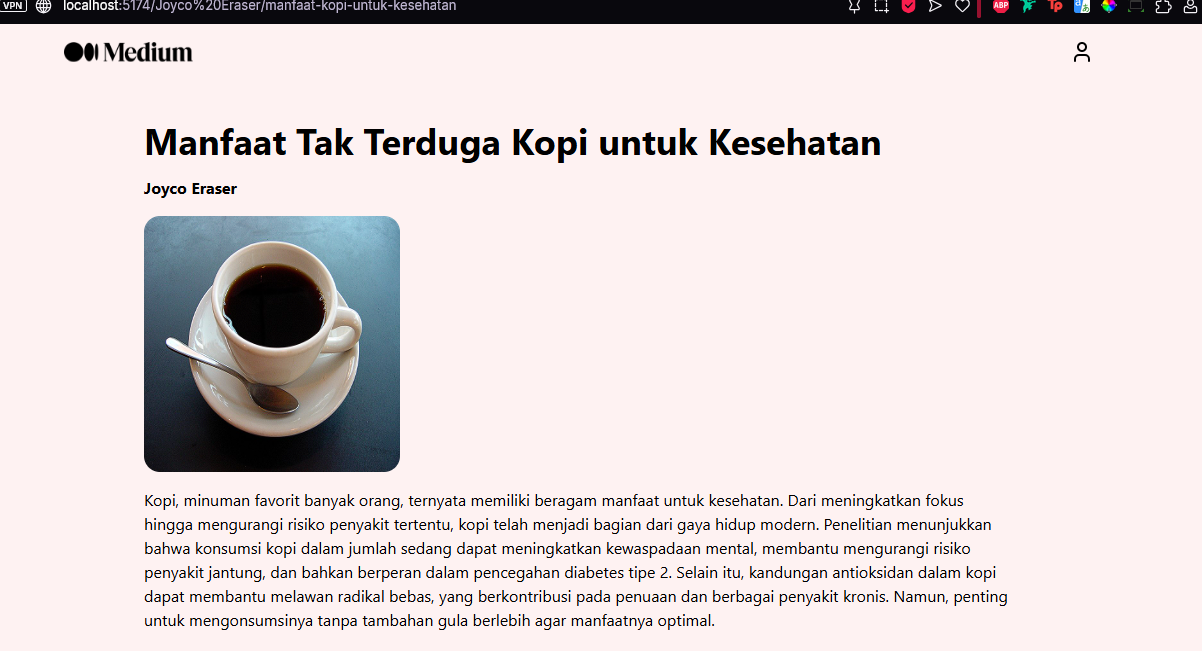
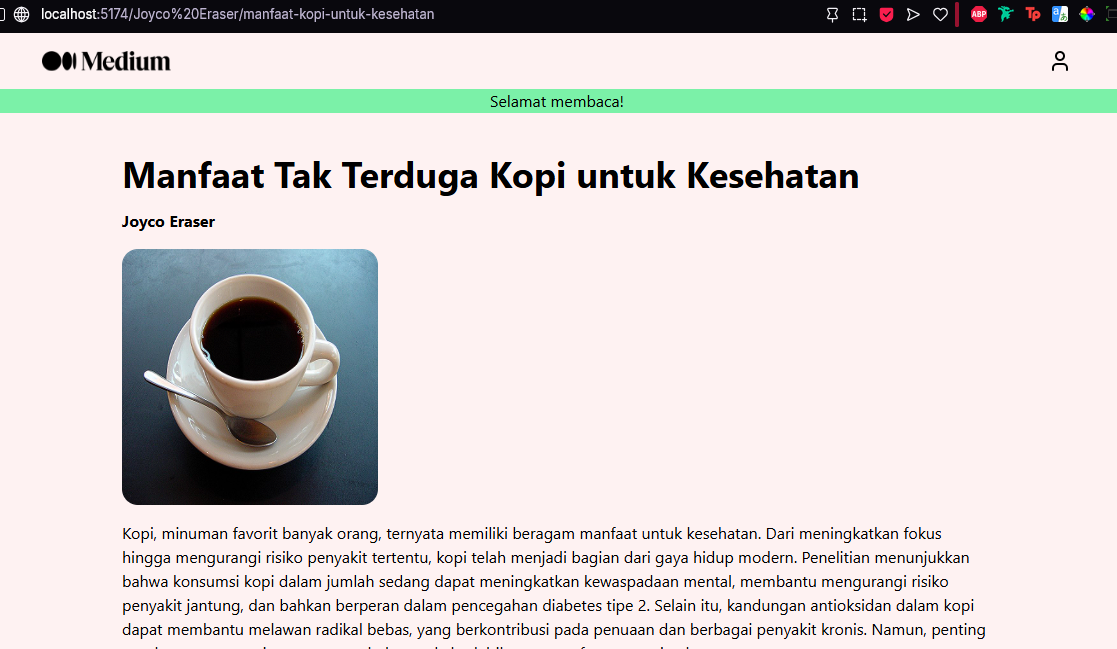
feat: add navigation state from ArticleList to ArticleDetail

Changed region(s): [[0.0, 0.0, 1.0, 0.9861]]

diff --git a/src/pages/ArticleDetail.jsx b/src/pages/ArticleDetail.jsx
@@ -1,11 +1,12 @@
 import React from 'react';
-import { useParams } from 'react-router-dom';
+import { useLocation, useParams } from 'react-router-dom';
 import { articleList } from '../../public/articles/articleList';
 
 
 
 function ArticleDetail() {
-  const { username, slug } = useParams();
+  const {state} = useLocation()
+  const { username, slug } = useParams()
   const article = articleList.find(
     (item) => item.username === username && item.slug === slug
   )
@@ -13,7 +14,9 @@ function ArticleDetail() {
 
   return (
     <>
-      <div className="px-60 mt-10 flex flex-col items-start gap-4 justify-center">
+      <div>{state?.success && <div className='bg-green-300 text-center'>
+          <span>{state?.success}</span></div>}</div>
+      <div className="px-60 mt-10 flex flex-col items-start gap-4 justify-center">  
         <h1 className="text-4xl font-bold">{article.title}</h1>
         <p className="font-bold">{article.username}</p>
         <img src={article.img} alt={article.title} className="h-64 w-64 rounded-2xl" />

diff --git a/src/components/ArticleList.jsx b/src/components/ArticleList.jsx
@@ -11,7 +11,7 @@ function ArticleList() {
   const articlesPerPage = 5
 
   const handleNavigate = (param1, param2) => {
-    navigate(`/${param1}/${param2}`)
+    navigate(`/${param1}/${param2}`, {state: {success: "Selamat membaca!"}})
   }
 
   const handleSearch = (e) => {
